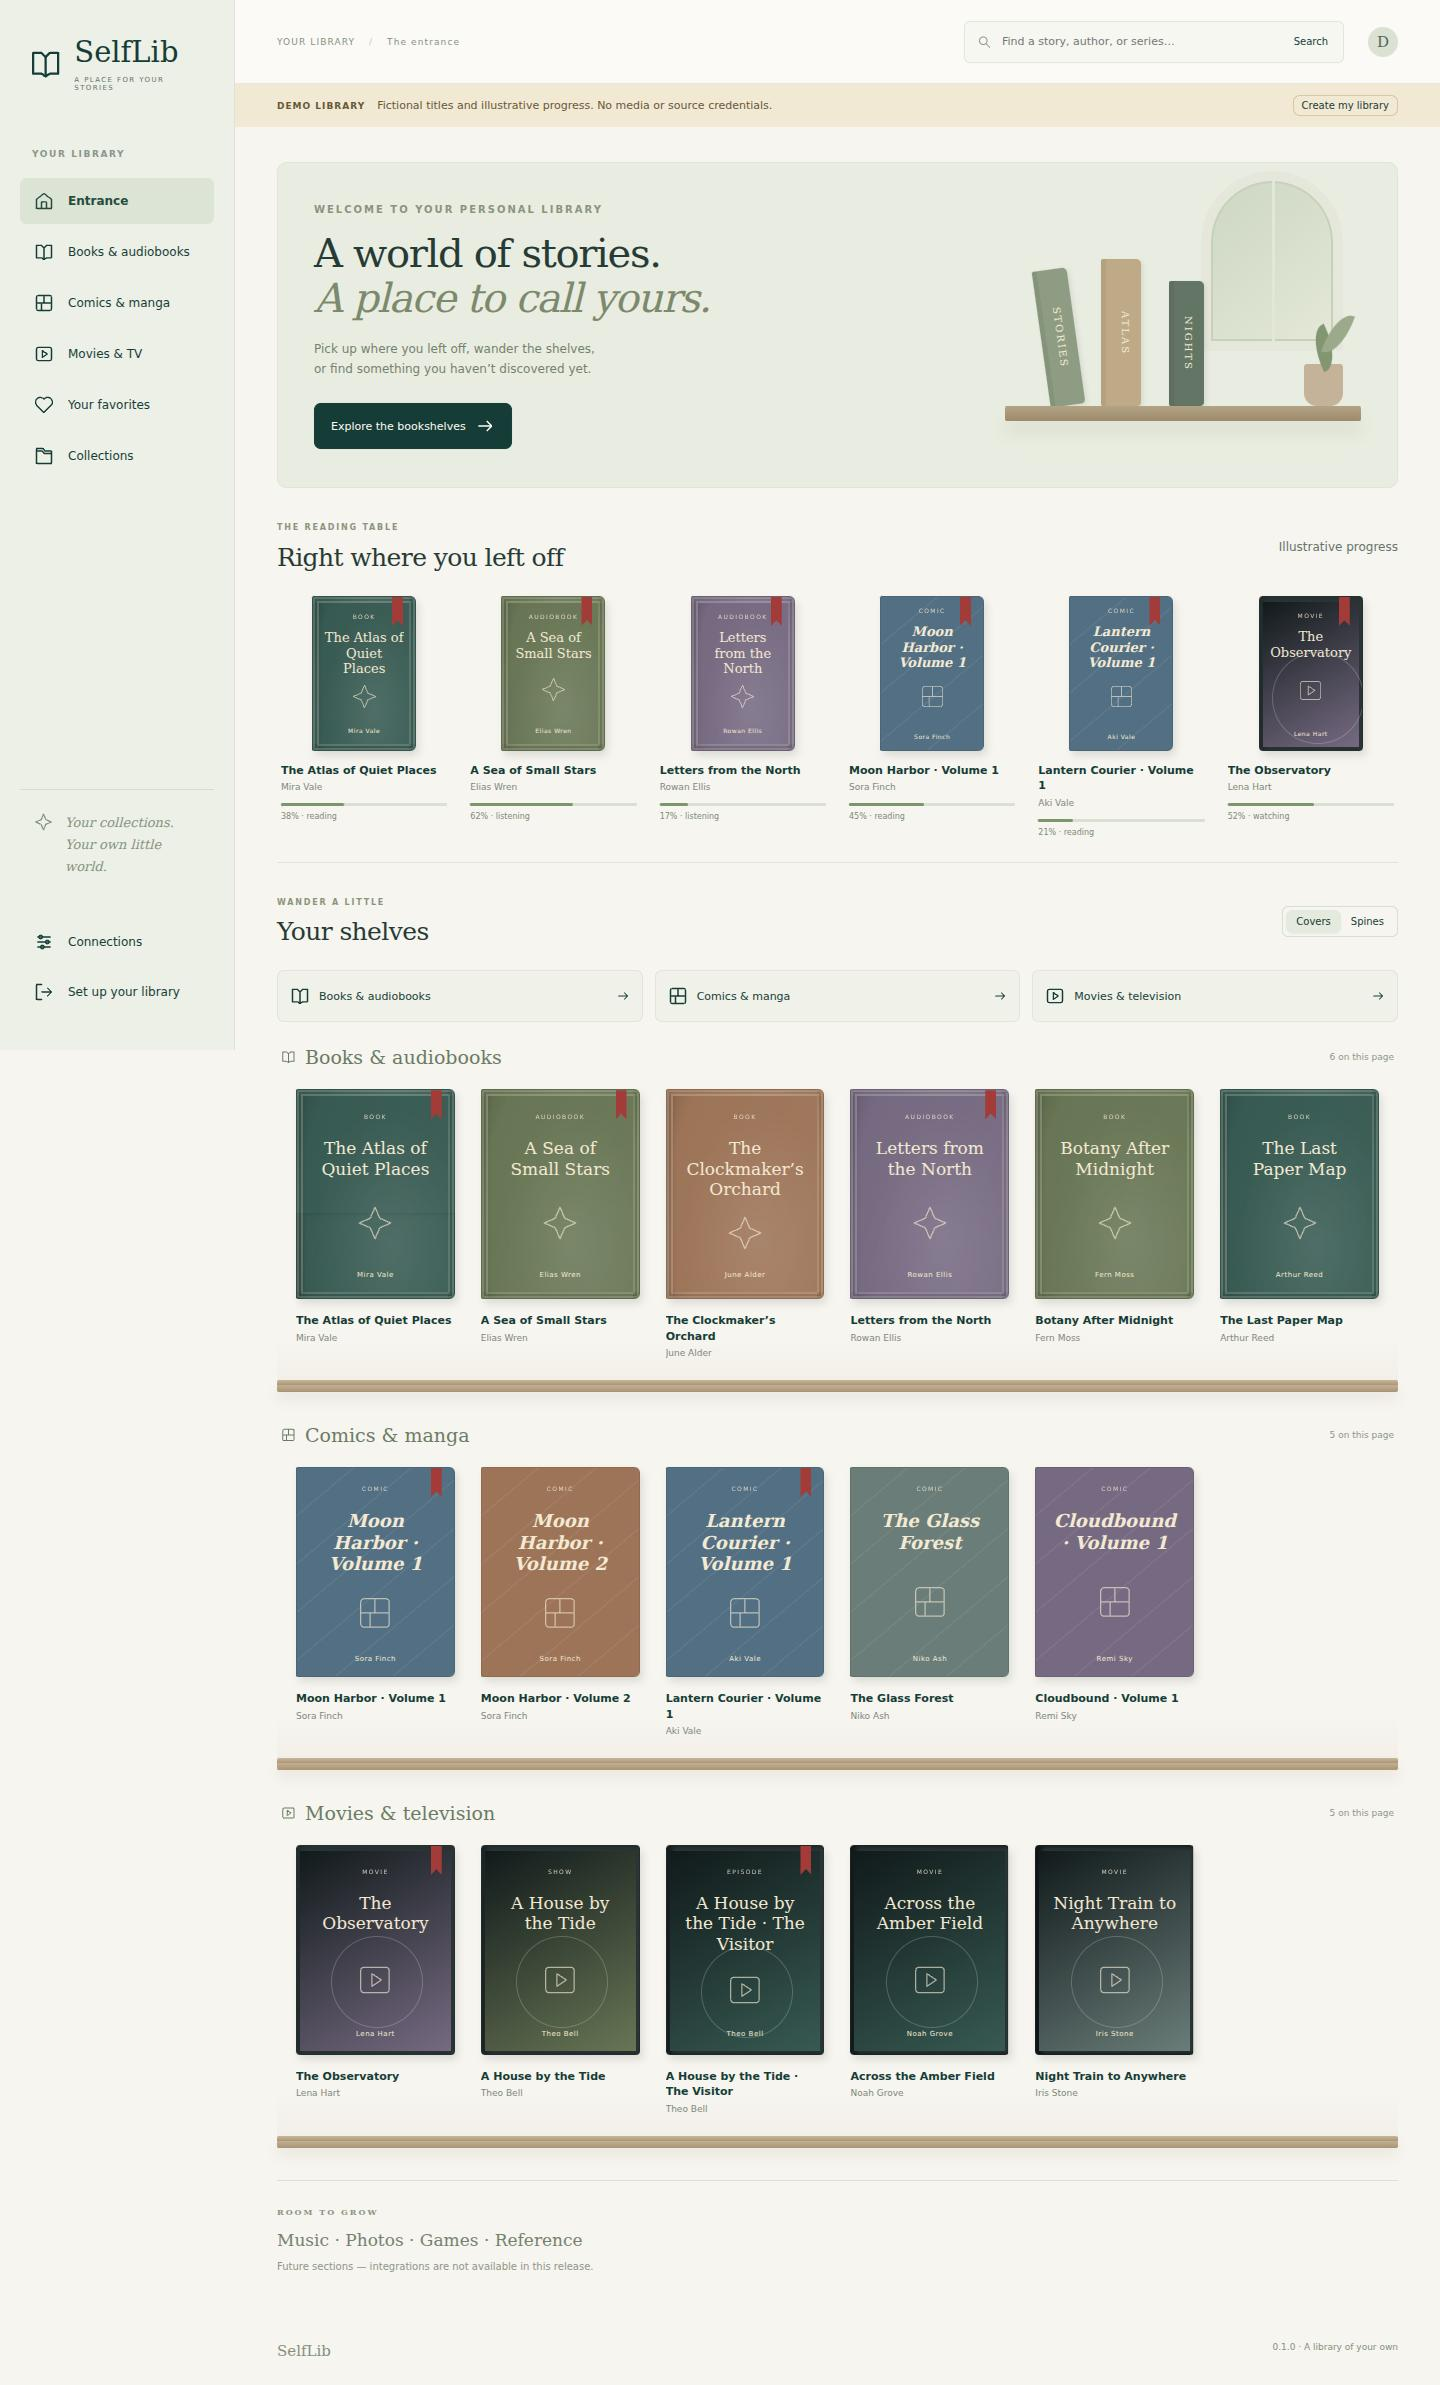
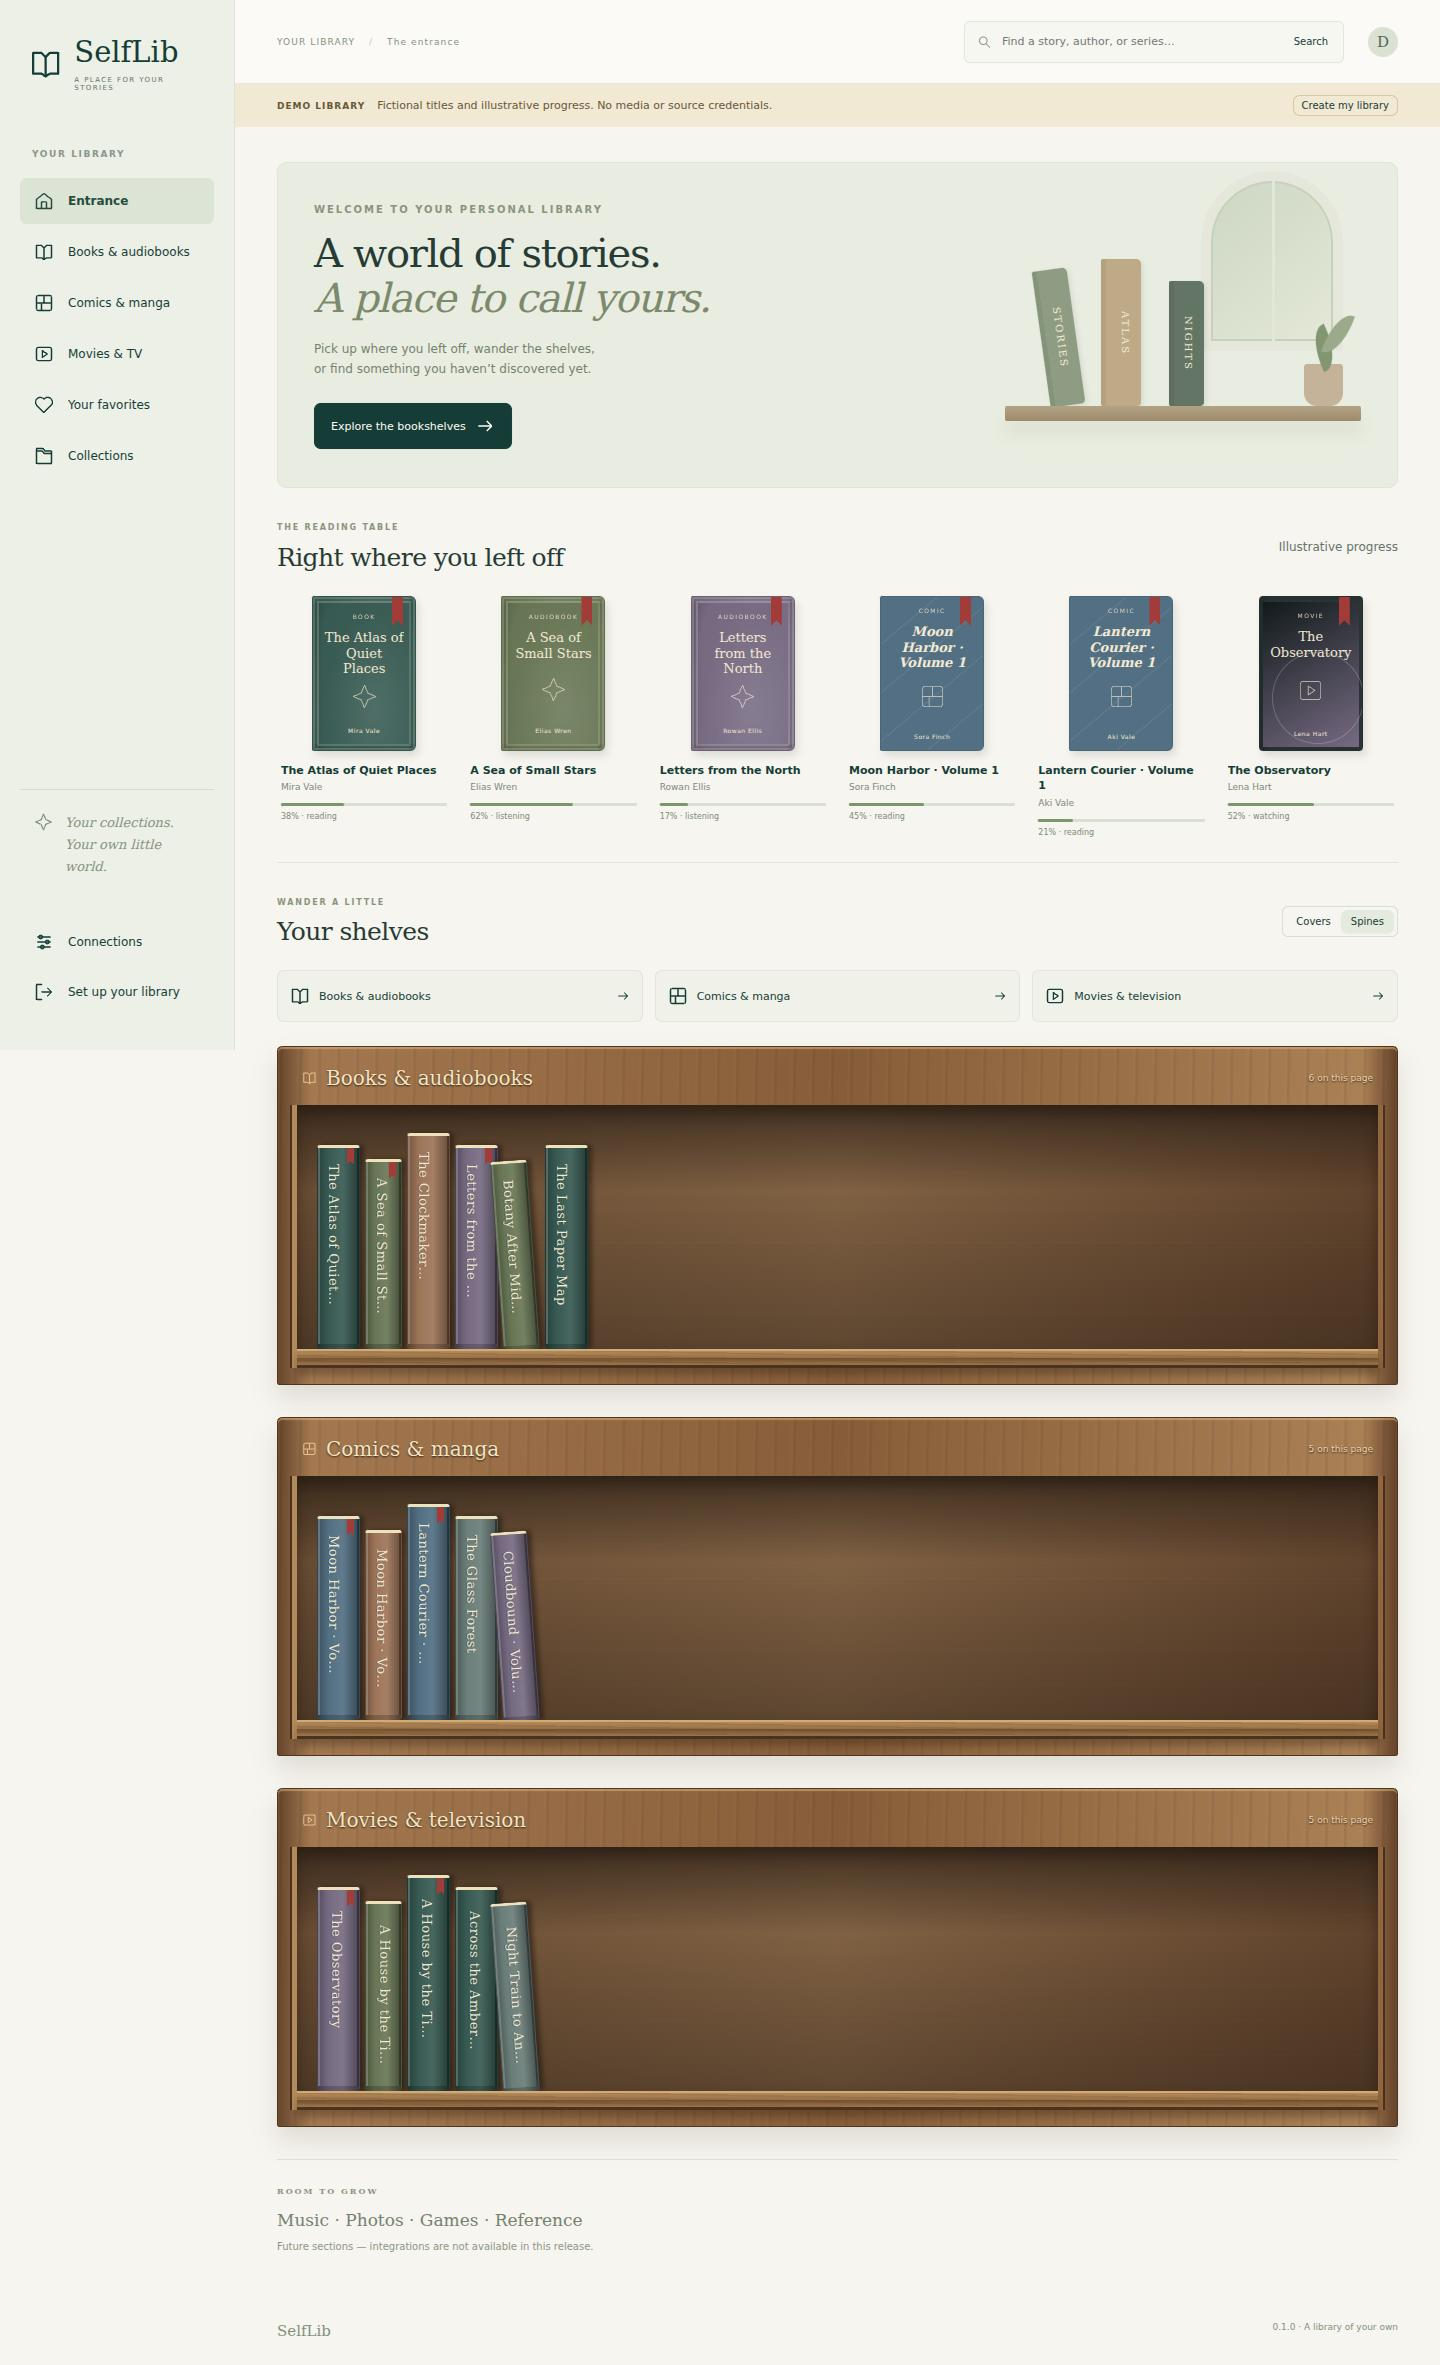
Present collections as physical wooden bookcases with spine-first browsing

diff --git a/src/client/app.css b/src/client/app.css
@@ -1809,3 +1809,154 @@ dialog::backdrop {
     transform: none;
   }
 }
+
+/* Physical bookcases: every row has its own backboard, side posts and shelf. */
+.shelf-group {
+  padding: 12px 14px 16px;
+  border: 1px solid #50351f;
+  border-radius: 5px 5px 2px 2px;
+  background:
+    repeating-linear-gradient(91deg, #ffffff04 0 2px, #23140810 3px 5px, transparent 6px 19px),
+    linear-gradient(90deg, #67452c, #a37850 3%, #875d39 50%, #aa8055 97%, #634129);
+  box-shadow:
+    inset 0 2px 1px #e4bd8480,
+    0 14px 25px #3b241e20;
+}
+.shelf-label {
+  color: #f5e5c4;
+  margin: 0;
+  padding: 7px 10px 15px;
+  text-shadow: 0 1px 2px #33200f;
+}
+.shelf-label h3 {
+  font-size: 20px;
+}
+.shelf-label span {
+  color: #ebd4b1;
+}
+.shelf-label svg {
+  color: #e3c28a;
+}
+.shelf-bay {
+  border-left: 5px solid #b38a5b;
+  border-right: 5px solid #91663e;
+  box-shadow:
+    -2px 0 0 #48321f,
+    2px 0 0 #48321f;
+}
+.shelf-items,
+.shelf-items.spines {
+  display: flex;
+  align-items: flex-end;
+  gap: 5px;
+  padding: 24px 20px 0;
+  min-height: 244px;
+  overflow-x: auto;
+  overflow-y: hidden;
+  scrollbar-width: thin;
+  scrollbar-color: #bb9668 #58402c;
+  background:
+    linear-gradient(#241a13aa, transparent 35%, #1b120d55),
+    repeating-linear-gradient(0deg, #ffffff03 0 1px, transparent 2px 35px),
+    linear-gradient(90deg, #684c33, #806143 50%, #60432c);
+  box-shadow: inset 0 8px 15px #1e120a80;
+}
+.shelf-items .item {
+  flex: 0 0 clamp(115px, 13vw, 164px);
+  padding: 0 4px;
+}
+.shelf-items .item-open {
+  gap: 0;
+  align-items: center;
+}
+.shelf-items .item-caption {
+  display: none;
+}
+.shelf-items .object {
+  height: 204px;
+  width: 100%;
+  max-height: none;
+  aspect-ratio: auto;
+}
+.shelf-items .item:nth-child(3n + 2) .object {
+  height: 190px;
+}
+.shelf-items .item:nth-child(4n + 3) .object {
+  height: 216px;
+}
+.shelf-items.spines .item {
+  flex-basis: 43px;
+  padding: 0;
+}
+.shelf-items.spines .object {
+  width: 43px;
+}
+.shelf-items.spines .item:nth-child(3n + 2) {
+  flex-basis: 37px;
+}
+.shelf-items.spines .item:nth-child(3n + 2) .object {
+  width: 37px;
+}
+.shelf-items.spines .item:nth-child(5n) .object {
+  transform: rotate(-4deg);
+  transform-origin: right bottom;
+}
+.shelf-items.spines .object {
+  border-top: 3px solid #eee2bd;
+  border-bottom: 5px solid #0003;
+  background: linear-gradient(90deg, #0004, transparent 25%, #ffffff15 60%, #0005), var(--cover);
+  box-shadow:
+    inset 2px 0 0 #ffffff35,
+    inset -2px 0 0 #0005,
+    4px 0 5px #160e0a80;
+}
+.shelf-items.spines .spine-title {
+  max-height: 175px;
+  padding: 16px 8px;
+  letter-spacing: 0.5px;
+  text-shadow: 0 1px #0006;
+}
+.shelf-items .item-open:hover .object,
+.shelf-items .item-open:focus-visible .object {
+  transform: translateY(-13px) rotate(-5deg);
+  filter: brightness(1.12);
+}
+.wood-edge {
+  height: 19px;
+  border-top: 2px solid #d1aa77;
+  border-bottom: 3px solid #49321e;
+  border-radius: 0;
+  background:
+    repeating-linear-gradient(1deg, transparent 0 3px, #4e311b22 4px 5px),
+    linear-gradient(#b48a59, #977047 50%, #75512f 52%, #9d754c);
+  box-shadow: 0 7px 8px #26170c55;
+}
+.shelf-bay + .shelf-bay {
+  margin-top: 0;
+}
+@media (max-width: 600px) {
+  .shelf-group {
+    padding: 9px 8px 12px;
+  }
+  .shelf-label {
+    padding: 7px 3px 12px;
+    gap: 5px;
+  }
+  .shelf-label h3 {
+    font-size: 16px;
+  }
+  .shelf-label span {
+    font-size: 8px;
+  }
+  .shelf-items,
+  .shelf-items.spines {
+    padding-left: 13px;
+    padding-right: 13px;
+  }
+}
+@media (prefers-reduced-motion: reduce) {
+  .shelf-items .item-open:hover .object,
+  .shelf-items .item-open:focus-visible .object {
+    transform: none;
+  }
+}

diff --git a/src/client/app.ts b/src/client/app.ts
@@ -25,7 +25,7 @@ const dialog = document.querySelector<HTMLDialogElement>('#detail')!;
 let status: Status;
 let demo = false;
 let page = 'home';
-let view = localStorage.getItem('selflib-view') || 'covers';
+let view = localStorage.getItem('selflib-view') || 'spines';
 let q = '';
 let offset = 0;
 let total = 0;
@@ -268,7 +268,14 @@ function renderShelves(list: ItemView[]) {
   return Object.entries(groups)
     .map(
       ([section, entries]) =>
-        `<div class="shelf-group"><div class="shelf-label">${icon(section === 'books' ? 'book' : section)}<h3>${labels[section]}</h3><span>${entries.length} on this page</span></div><div class="shelf-items ${view}">${entries.map((i) => itemCard(i)).join('')}</div><div class="wood-edge"></div></div>`,
+        `<div class="shelf-group"><div class="shelf-label">${icon(section === 'books' ? 'book' : section)}<h3>${labels[section]}</h3><span>${entries.length} on this page</span></div>${Array.from(
+          { length: Math.ceil(entries.length / (view === 'spines' ? 18 : 6)) },
+          (_, row) =>
+            `<div class="shelf-bay"><div class="shelf-items ${view}">${entries
+              .slice(row * (view === 'spines' ? 18 : 6), (row + 1) * (view === 'spines' ? 18 : 6))
+              .map((i) => itemCard(i))
+              .join('')}</div><div class="wood-edge"></div></div>`,
+        ).join('')}</div>`,
     )
     .join('');
 }

diff --git a/docs/verification.md b/docs/verification.md
@@ -25,7 +25,7 @@ The workspace has no Docker daemon, so **local Docker build/Compose smoke were n
 - **Container:** real `linux/amd64` Docker build, fresh production Compose volume, setup-token/owner authentication, protected catalog, favorite persistence after restart, logout and disposable cleanup.
 - **Application:** clean npm install, strict types/lint, all 11 Node tests, reproducible license notices, production build/native smoke, standard Playwright Chromium installation and all three responsive browser journeys. Fictional screenshots are retained as a CI artifact.
 
-This evidence verifies the declared AMD64 image dependencies and installation path; it does not imply ARM64 or live-source compatibility. No registry image has been published. The later documentation-only evidence commit does not change the verified application or container inputs.
+This evidence verifies the declared AMD64 image dependencies and installation path; it does not imply ARM64 or live-source compatibility. No registry image has been published. Results belong to the linked commit. The subsequent physical-bookcase UI revision was checked again with strict types, lint, production build and all three responsive browser journeys; updated screenshots were captured. Current PR checks cover subsequent commits.
 
 Only Linux AMD64 is the declared container target. Native Linux x64 Node/SQLite/FTS5 are tested. ARM64, native Windows server execution, real iPhone/iPad Safari, other browser engines, live reverse-proxy/certificate installation, and real upstream server versions are unverified. Phone/tablet Chromium viewport tests do not prove iOS compatibility.
 
@@ -44,8 +44,8 @@ Measured on the clean native production smoke install, with **16 fictional items
 | Node RSS after setup                   | About 67.5 MiB (70,782,976 bytes), sampled through `process.memoryUsage()` from the production child; not whole-container memory |
 | SQLite after graceful stop             | 114,688 bytes                                                                                                                    |
 | Runtime npm dependencies on disk       | About 15 MiB                                                                                                                     |
-| Compiled output including maps         | About 276 KiB                                                                                                                    |
-| Browser JavaScript / CSS, uncompressed | 26,860 / 30,545 bytes; no mandatory font download                                                                                |
+| Compiled output including maps         | About 280 KiB                                                                                                                    |
+| Browser JavaScript / CSS, uncompressed | 27,026 / 34,066 bytes; no mandatory font download                                                                                |
 
 These numbers are not large-library or homelab load tests. Reserve **256–768 MiB RAM** and roughly one available CPU core during sync/build as an initial estimate; Compose limits runtime to 768 MiB / one CPU. Password scrypt briefly uses additional memory/CPU. Metadata staging is bounded to 10,000 items per source; descriptions can make staging much larger than the demo. Synchronous transactions/password work can pause requests in this single-owner design.
 

diff --git a/README.md b/README.md
@@ -9,7 +9,7 @@ SelfLib **0.1.0** is a single-owner first milestone. It connects to **Audiobooks
 ## What works
 
 - Responsive entrance, book/audiobook shelves, comic/manga volumes, and movie/TV cases.
-- Cover/spine browsing, generated covers and spines, keyboard-accessible native detail dialogs.
+- Physical wooden bookcases with backboards, side posts and a plank under every row. Spine-first browsing, varied book heights/thicknesses, pull-out hover/focus interactions, a cover view, and keyboard-accessible detail dialogs.
 - Full-text metadata search, persistent favorites, and mixed collections.
 - Source-reported reading/listening/watching progress as of the last manual sync.
 - Connection setup, testing, editing, removal, manual sync, health and timestamps.

diff --git a/CHANGELOG.md b/CHANGELOG.md
@@ -5,6 +5,7 @@
 - Added single-owner onboarding, local sessions, CSRF checks and login throttling.
 - Added server-side encrypted service credentials and endpoint-constrained API transport.
 - Added Audiobookshelf, Komga and Jellyfin contract-tested adapters and bounded manual sync.
+- Added physical wooden bookcases, spine-first browsing, individual shelf rows, and varied book shapes.
 - Added responsive shelves, source handoff, progress snapshots, search, favorites and mixed collections.
 - Added clearly labeled fictional demo and protected catalog/artwork caching.
 - Added versioned SQLite initialization, offline maintenance, Docker packaging, checks and public docs.
